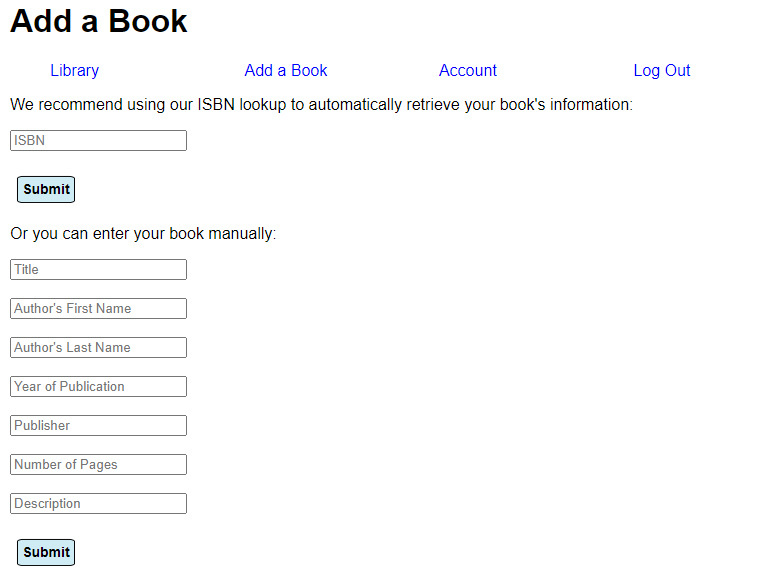
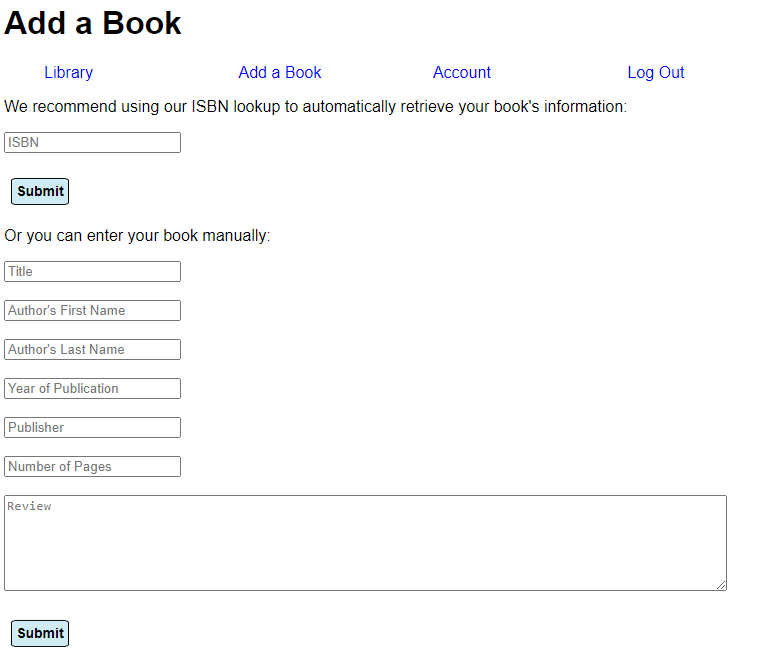
Bug fixes.

diff --git a/src/db/book_db.js b/src/db/book_db.js
@@ -154,6 +154,9 @@ const getBookById = (bookId, userId, cb) => {
 
 const updateBook = (update, bookId, userId, cb) => {
     update = sanitizeObject(update);
+    if (update.review) {
+        update.review = update.review.replace(/(?:\r\n|\r|\n)/g, '<br>');
+    }
     const connection = mysql.createConnection({
         host: "localhost",
         user: "devuser",

diff --git a/src/utils/googlebooks.js b/src/utils/googlebooks.js
@@ -33,7 +33,8 @@ const getBookInfo = (isbn, cb) => {
                 pubYear,
                 pub: "-",
                 numPages,
-                imgUrl
+                imgUrl,
+                review: ""
             });
         }
     })
